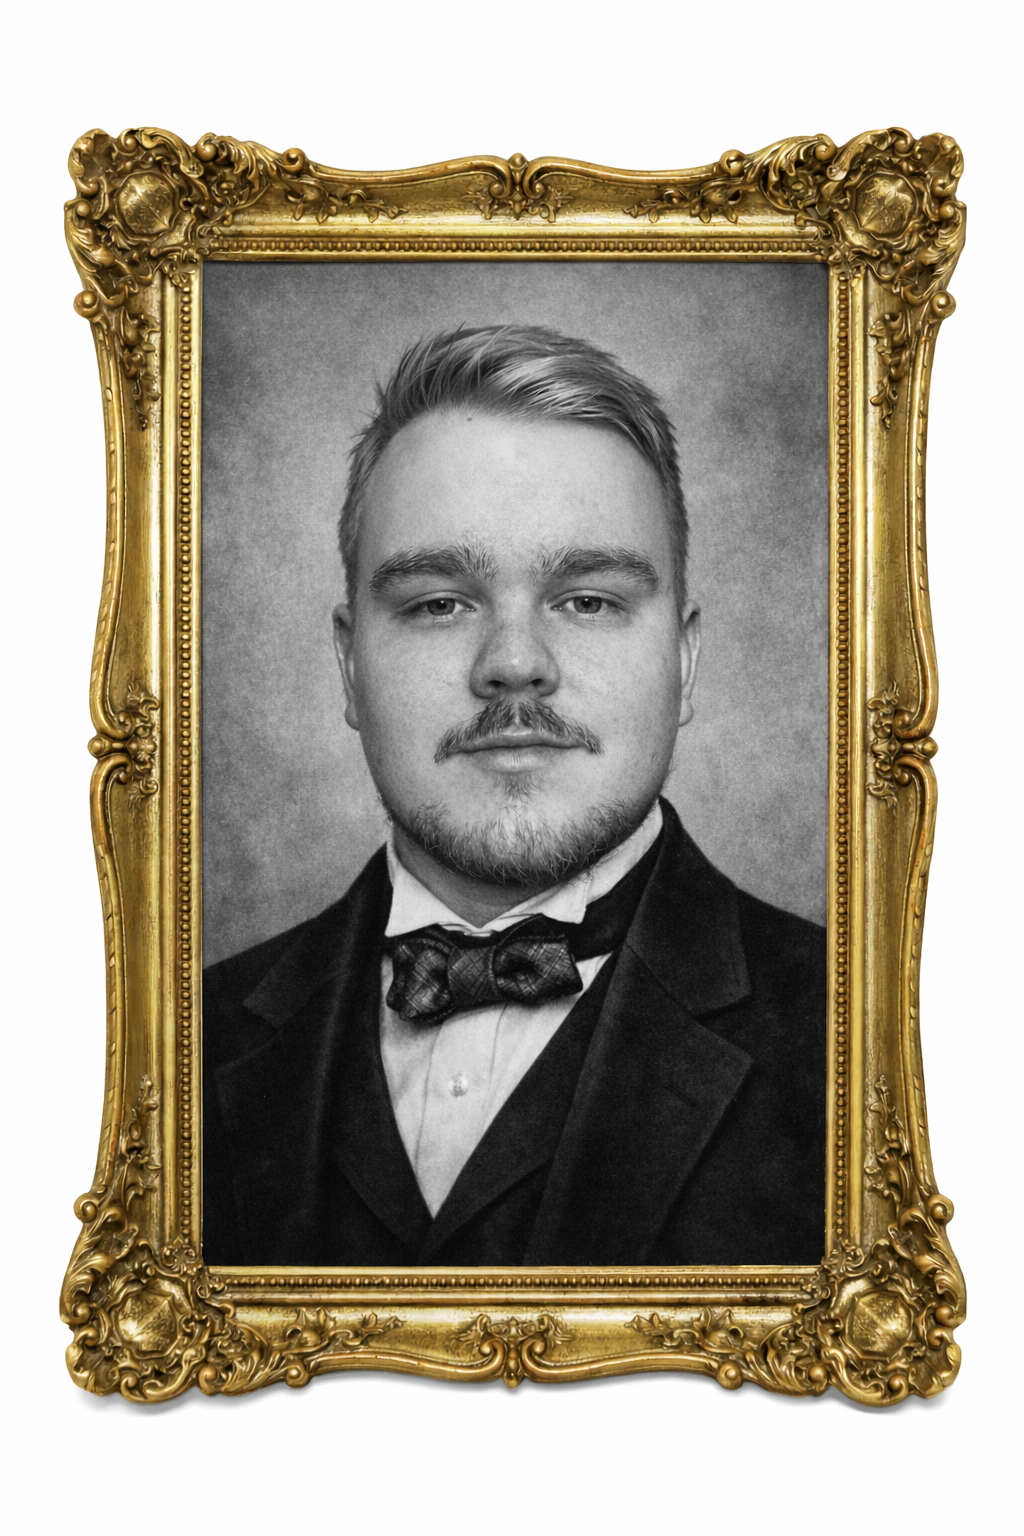
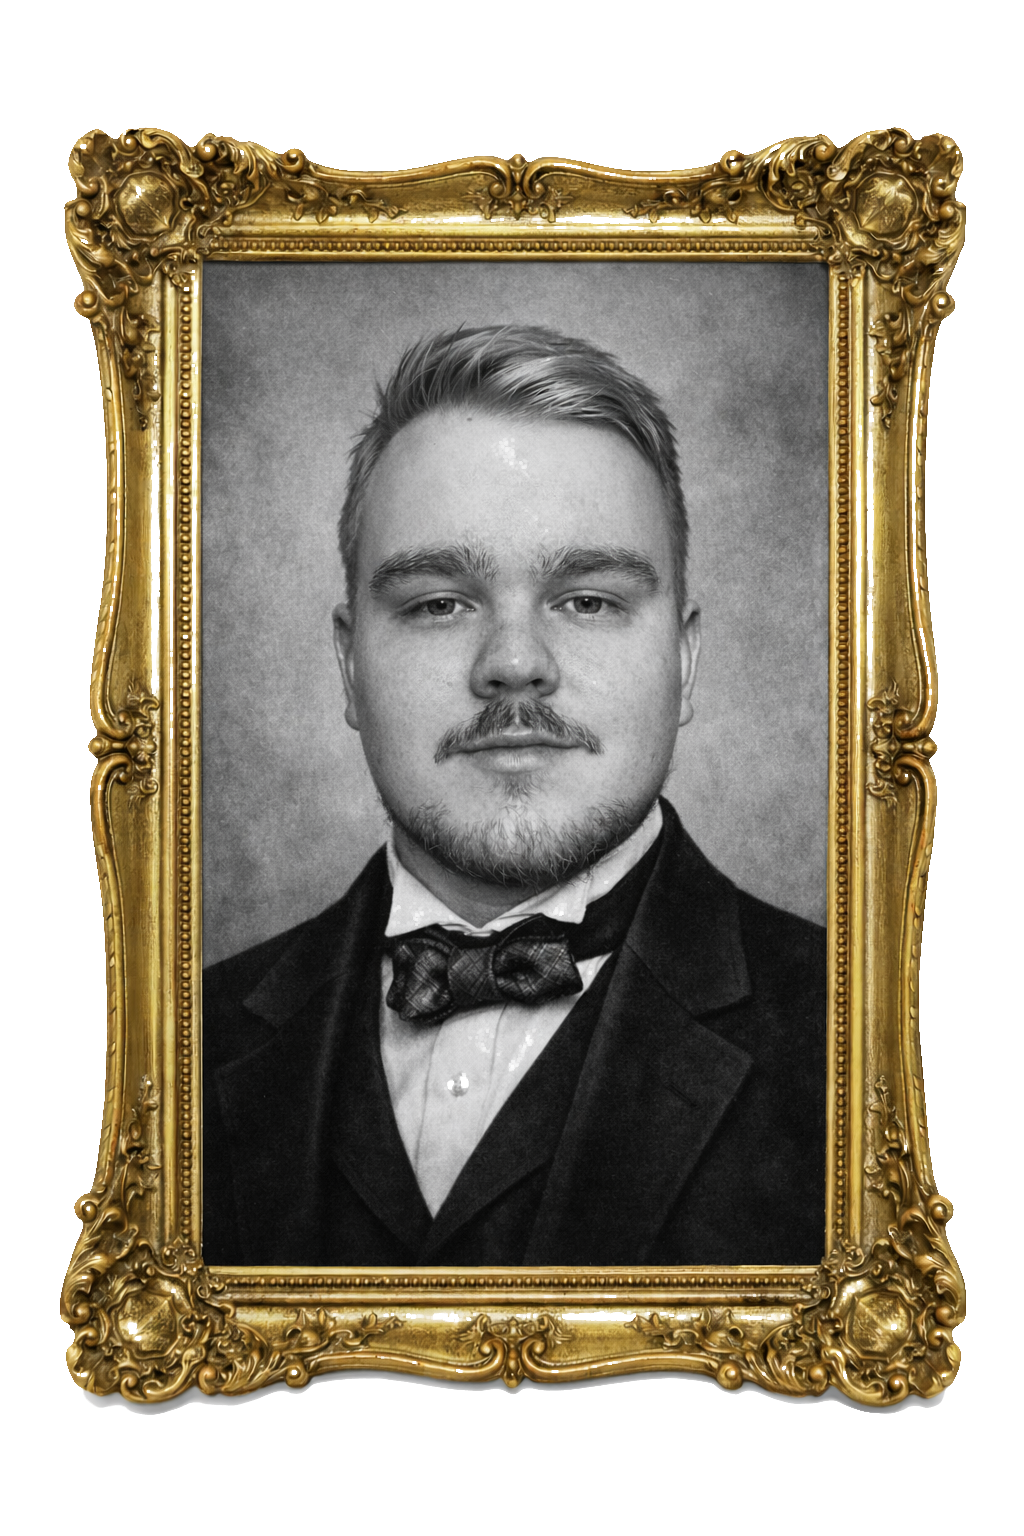
fix: remove white fringe and bright halo from about portrait

diff --git a/components/portfolio-panel-content.tsx b/components/portfolio-panel-content.tsx
@@ -111,7 +111,7 @@ export function AboutPanelContent({
   void section;
 
   const heroLine = `${profile.name.toUpperCase()} IS AN ICT ENGINEERING STUDENT FOCUSED ON NETWORKING, LINUX, CLOUD AND PRACTICAL SYSTEM BUILDING`;
-  const portraitSrc = "/portfolio/about-vintage-roope-transparent.png";
+  const portraitSrc = "/portfolio/about-vintage-roope.png";
   const leftCopy =
     "Hi, I am Roope Aaltonen. I work in a practical, build-first way and I enjoy turning technical ideas into working systems. My strongest interest areas are networking, Linux environments and connected infrastructure where reliability matters.";
   const rightCopy =
@@ -130,7 +130,7 @@ export function AboutPanelContent({
         <div className="grid h-full min-h-0 grid-cols-[1fr_126px_1fr] items-center gap-2">
           <p className="text-[9px] leading-4 text-[#c8d2df]" style={{ fontFamily: "Georgia, 'Times New Roman', serif" }}>{leftCopy}</p>
           <div className="relative mx-auto h-[156px] w-[126px] overflow-hidden">
-            <Image src={portraitSrc} alt={profile.name} fill sizes="126px" className="object-contain object-center scale-[1.09] mix-blend-multiply [filter:contrast(1.05)_brightness(0.98)]" />
+            <Image src={portraitSrc} alt={profile.name} fill sizes="126px" className="object-contain object-center scale-[1.1] mix-blend-darken [filter:contrast(1.08)_brightness(0.94)]" />
           </div>
           <p className="text-[9px] leading-4 text-[#c8d2df]" style={{ fontFamily: "Georgia, 'Times New Roman', serif" }}>{rightCopy}</p>
         </div>
@@ -172,7 +172,7 @@ export function AboutPanelContent({
                 alt={`${profile.name} vintage portrait`}
                 fill
                 sizes="430px"
-                className="object-contain object-center scale-[1.12] mix-blend-multiply [filter:contrast(1.08)_brightness(0.985)]"
+                className="object-contain object-center scale-[1.13] mix-blend-darken [filter:contrast(1.1)_brightness(0.93)_drop-shadow(0_12px_18px_rgba(0,0,0,0.55))]"
                 priority={false}
               />
             </div>
